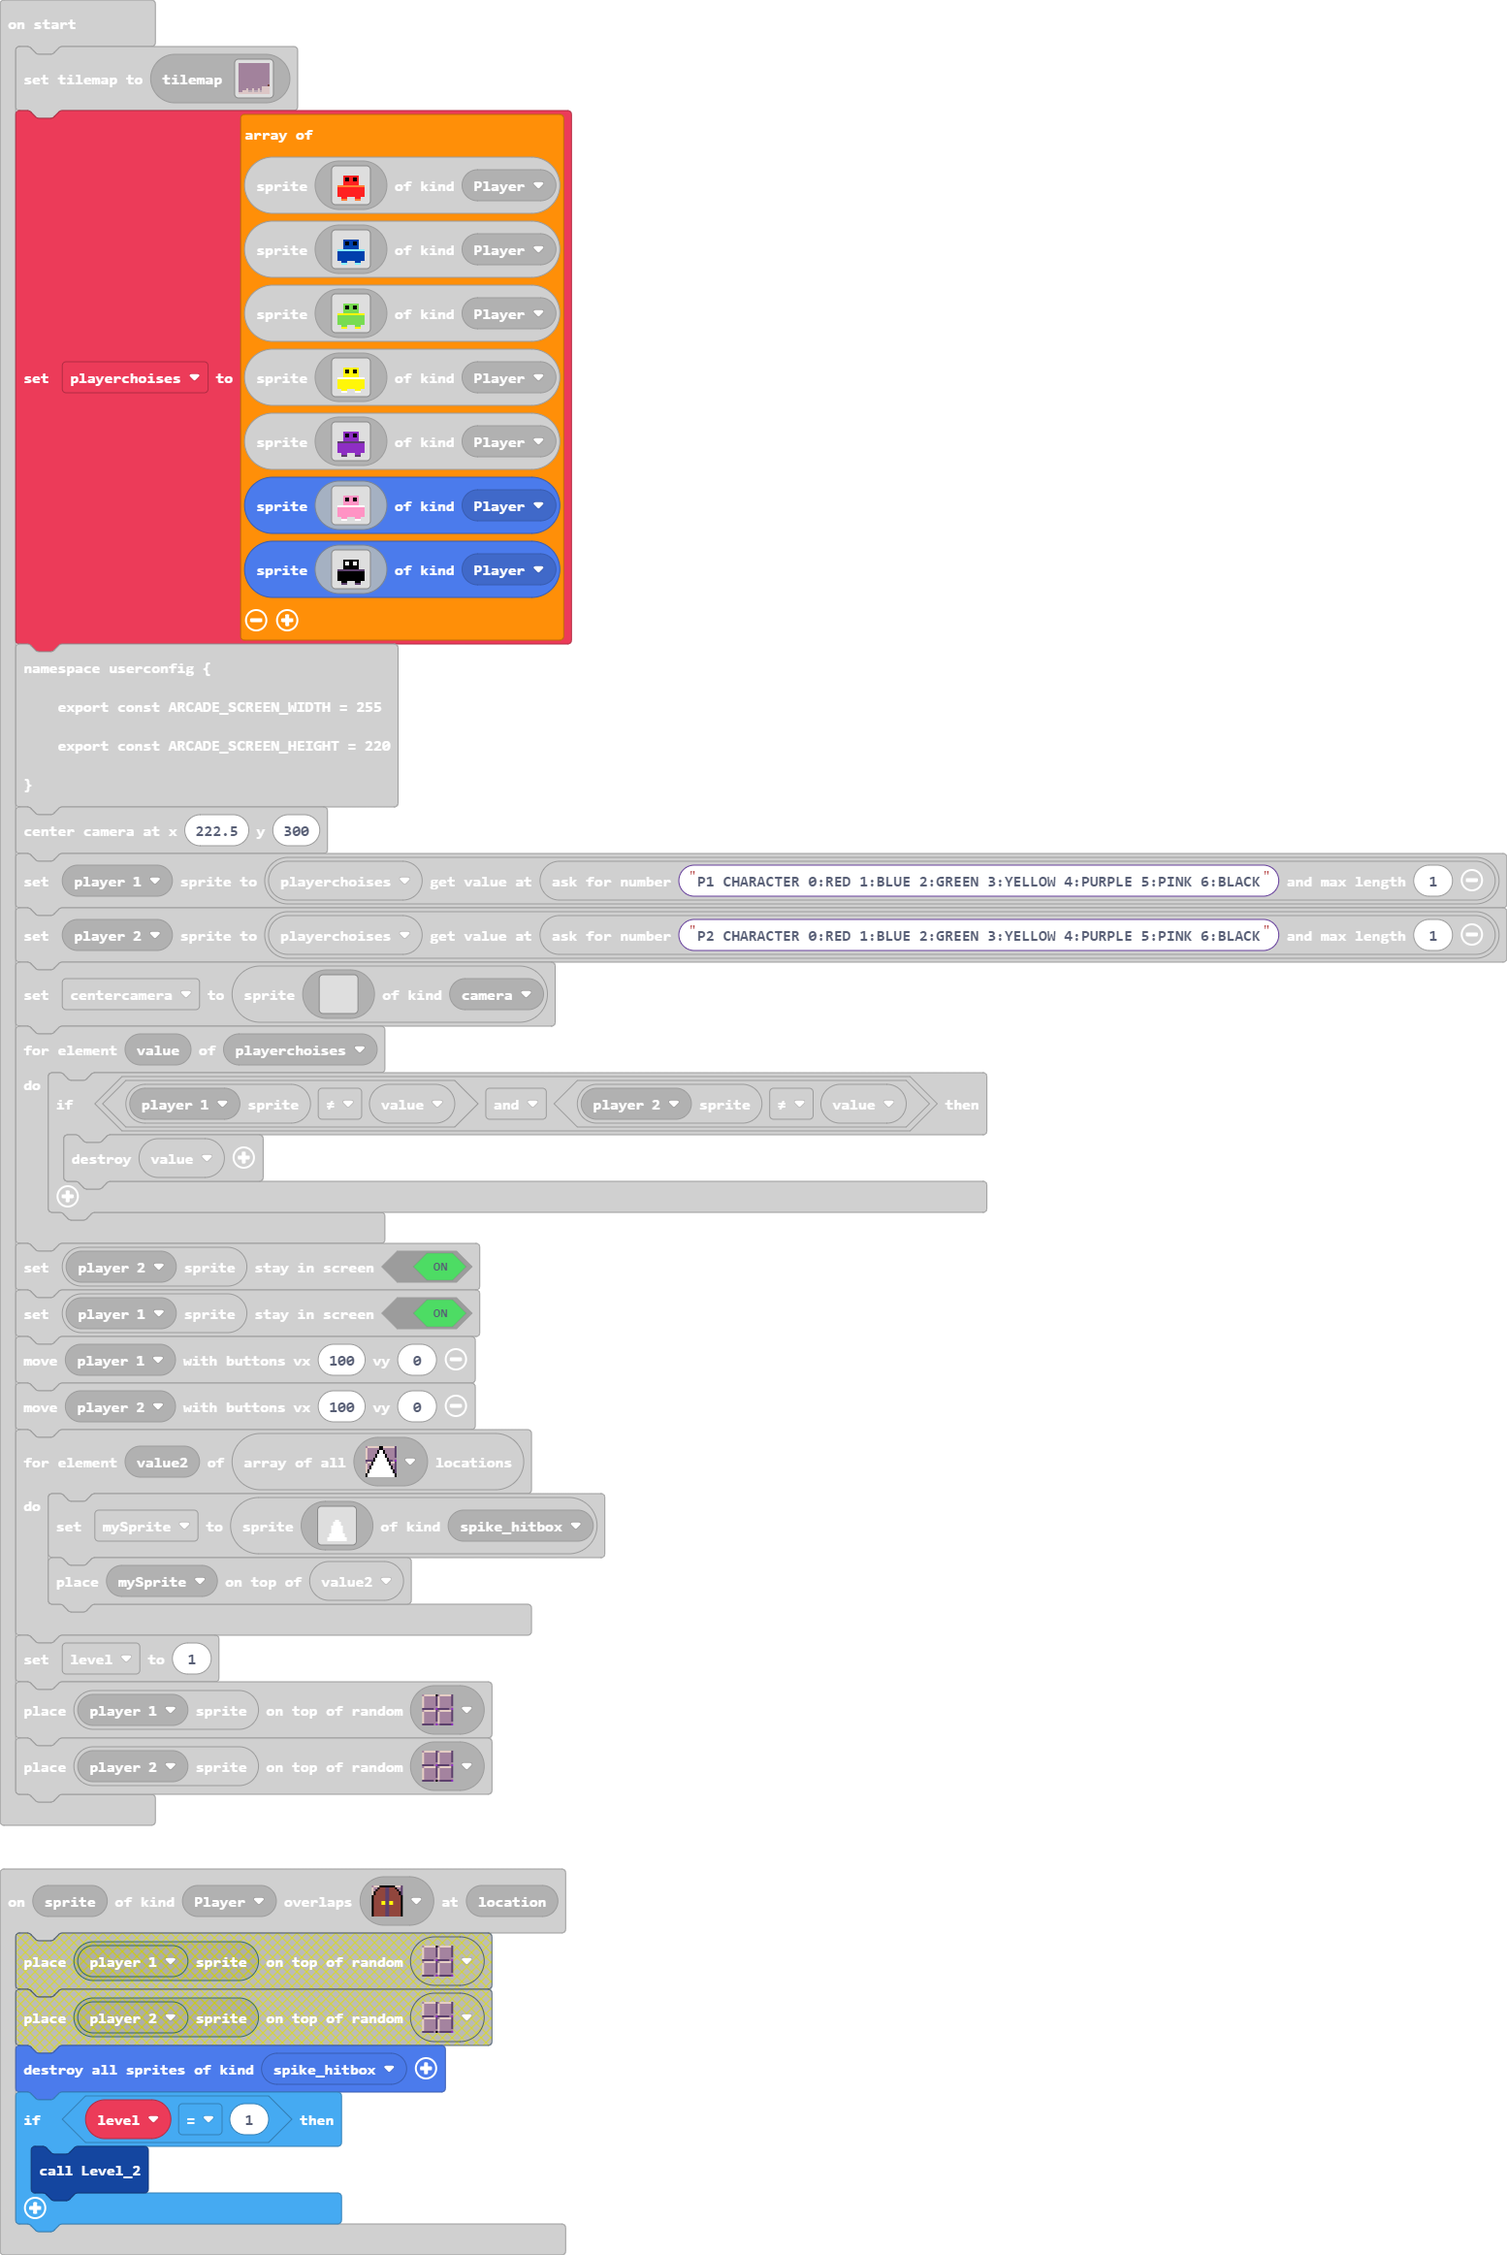
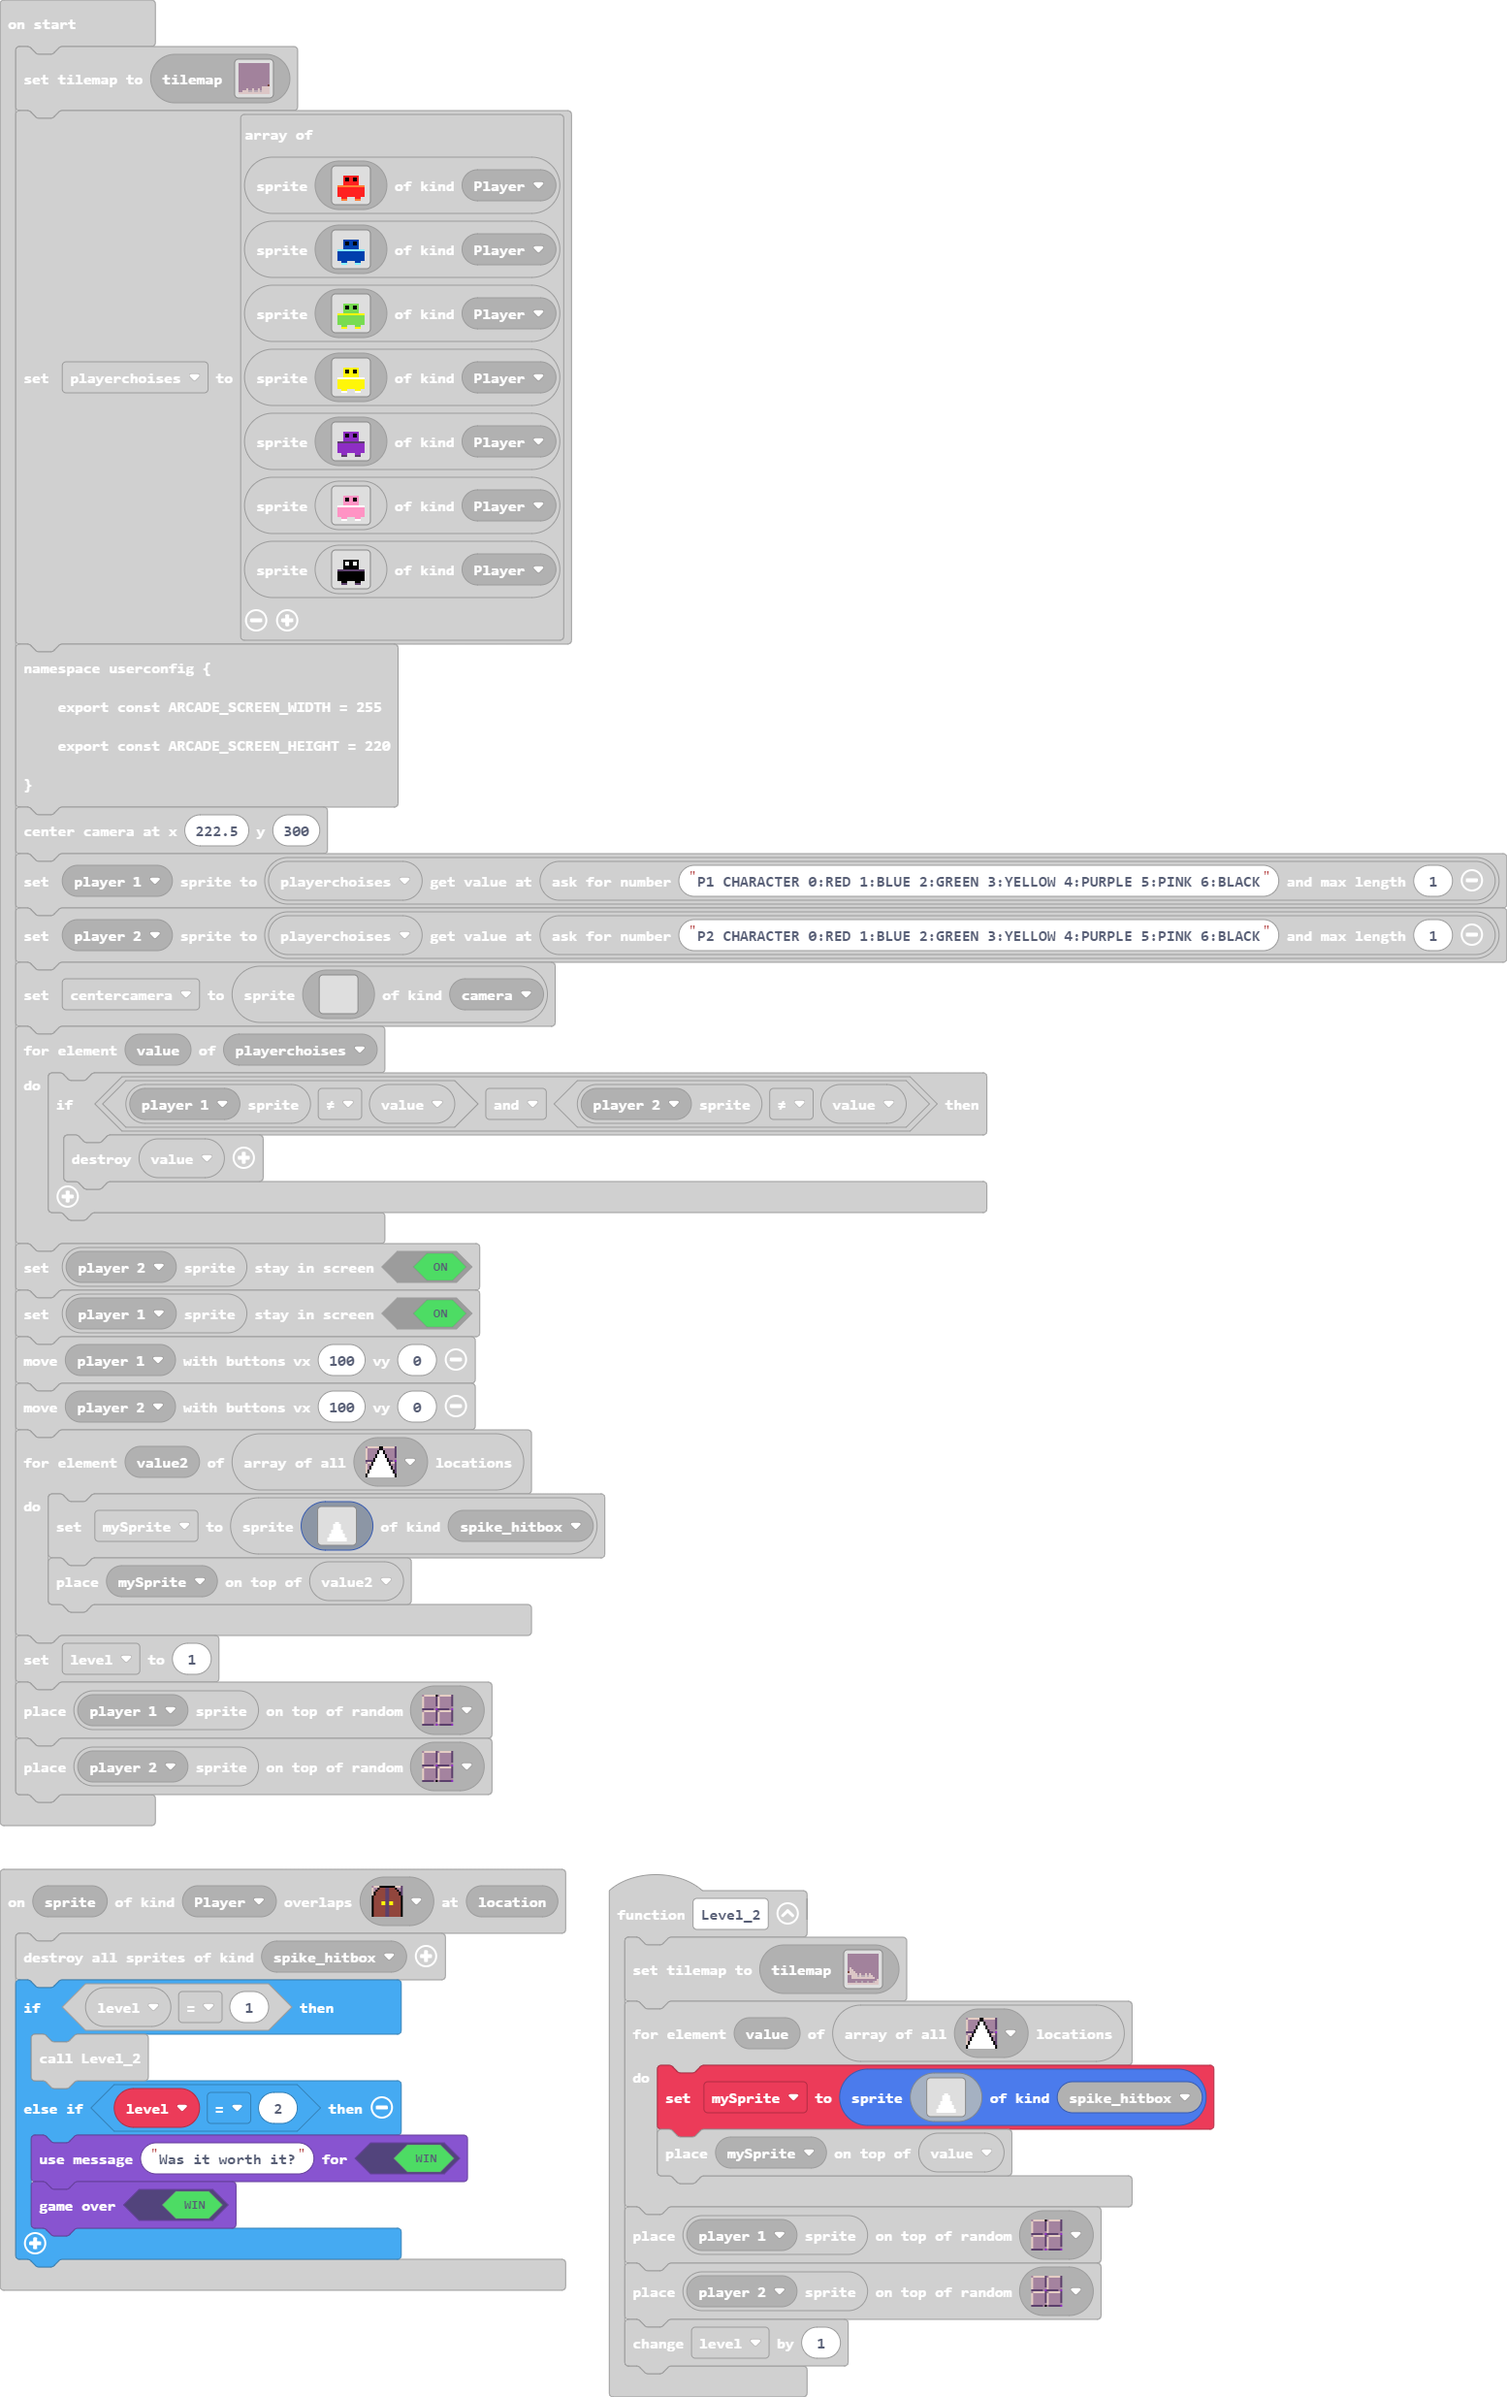
Update main.blocks, main.ts, tilemap.g.jres, tilemap.g.ts

diff --git a/tilemap.g.ts b/tilemap.g.ts
@@ -167,25 +167,6 @@ namespace myTiles {
 . . . . . . . . . . . . . . . . 
 . . . . . . . . . . . . . . . . 
 `, [myTiles.transparency16], TileScale.Sixteen);
-            case "level1":
-            case "level1":return tiles.createTilemap(hex`1000100001010101010101010101010101010101010101010101010101010101010101010101010101010101010101010101010101010101010101010101010101010101010101010101010101010101010101010101010101010101010101010101010101010101010101010101010101010101010201010101010101010101010101010102020101010101010101010101010106020202010101010101010101010101020202020201020101020102010101010101020202050205050205020201010101010202020202020202020202020101010101010101010101010101010101020403010105010105010105010501020202020202020202020202020202020202`, img`
-. . . . . . . . . . . . . . . . 
-. . . . . . . . . . . . . . . . 
-. . . . . . . . . . . . . . . . 
-. . . . . . . . . . . . . . . . 
-. . . . . . . . . . . . . . . . 
-. . . . . . . . . . . . . . . . 
-. . . . . . . . . . . . . . . . 
-. 2 . . . . . . . . . . . . . . 
-. 2 2 . . . . . . . . . . . . . 
-. 2 2 2 . . . . . . . . . . . . 
-2 2 2 2 2 . 2 . . 2 . 2 . . . . 
-. . 2 2 2 . 2 . . 2 . 2 2 . . . 
-. . 2 2 2 2 2 2 2 2 2 2 2 2 . . 
-. . . . . . . . . . . . . . . 2 
-. . . . . . . . . . . . . . 2 2 
-2 2 2 2 2 2 2 2 2 2 2 2 2 2 2 2 
-`, [myTiles.transparency16,sprites.dungeon.floorDark0,sprites.dungeon.floorLight0,myTiles.tile4,myTiles.tile5,myTiles.tile1,myTiles.tile2], TileScale.Sixteen);
             case "level10":
             case "level10":return tiles.createTilemap(hex`1000100000000000000000000000000000000000000000000000000000000000000000000000000000000000000000000000000000000000000000000000000000000000000000000000000000000000000000000000000000000000000000000000000000000000000000000000000000000000000000000000000000000000000000000000000000000000000000000000000000000000000000000000000000000000000000000000000000000000000000000000000000000000000000000000000000000000000000000000000000000000000000000000000000000000000000000000000000000000000000000000000000000000000000000000000000000000`, img`
 . . . . . . . . . . . . . . . . 
@@ -205,6 +186,25 @@ namespace myTiles {
 . . . . . . . . . . . . . . . . 
 . . . . . . . . . . . . . . . . 
 `, [myTiles.transparency16], TileScale.Sixteen);
+            case "level1":
+            case "level1":return tiles.createTilemap(hex`1000100001010101010101010101010101010101010101010101010101010101010101010101010101010101010101010101010101010101010101010101010101010101010101010101010101010101010101010101010101010101010101010101010101010101010101010101010101010101010201010101010101010101010101010102020101010101010101010101010106020202010101010101010101010101020202020201020101020102010101010101020202050205050205020201010101010202020202020202020202020101010101010101010101010101010101020403010105010105010105010105020202020202020202020202020202020202`, img`
+. . . . . . . . . . . . . . . . 
+. . . . . . . . . . . . . . . . 
+. . . . . . . . . . . . . . . . 
+. . . . . . . . . . . . . . . . 
+. . . . . . . . . . . . . . . . 
+. . . . . . . . . . . . . . . . 
+. . . . . . . . . . . . . . . . 
+. 2 . . . . . . . . . . . . . . 
+. 2 2 . . . . . . . . . . . . . 
+. 2 2 2 . . . . . . . . . . . . 
+2 2 2 2 2 . 2 . . 2 . 2 . . . . 
+. . 2 2 2 . 2 . . 2 . 2 2 . . . 
+. . 2 2 2 2 2 2 2 2 2 2 2 2 . . 
+. . . . . . . . . . . . . . . 2 
+. . . . . . . . . . . . . . 2 2 
+2 2 2 2 2 2 2 2 2 2 2 2 2 2 2 2 
+`, [myTiles.transparency16,sprites.dungeon.floorDark0,sprites.dungeon.floorLight0,myTiles.tile4,myTiles.tile5,myTiles.tile1,myTiles.tile2], TileScale.Sixteen);
         }
         return null;
     })

diff --git a/main.ts b/main.ts
@@ -7,6 +7,9 @@ scene.onOverlapTile(SpriteKind.Player, assets.tile`myTile0`, function (sprite, l
     sprites.destroyAllSpritesOfKind(SpriteKind.spike_hitbox)
     if (level == 1) {
         Level_2()
+    } else if (level == 2) {
+        game.setGameOverMessage(true, "Was it worth it?")
+        game.gameOver(true)
     }
 })
 sprites.onOverlap(SpriteKind.Player, SpriteKind.spike_hitbox, function (sprite, otherSprite) {
@@ -75,11 +78,11 @@ function Level_2 () {
             . . . . . . . . . . . . . . . . 
             . . . . . . . . . . . . . . . . 
             . . . . . . . . . . . . . . . . 
+            . . . . . . . . . . . . . . . . 
             . . . . . . . 1 1 . . . . . . . 
             . . . . . . 1 1 1 1 . . . . . . 
             . . . . . . 1 1 1 1 . . . . . . 
-            . . . . . 1 1 1 1 1 1 . . . . . 
-            . . . . . 1 1 1 1 1 1 . . . . . 
+            . . . . . . 1 1 1 1 . . . . . . 
             . . . . . 1 1 1 1 1 1 . . . . . 
             . . . . . 1 1 1 1 1 1 . . . . . 
             . . . . 1 1 1 1 1 1 1 1 . . . . 
@@ -266,11 +269,11 @@ for (let value2 of tiles.getTilesByType(assets.tile`myTile`)) {
         . . . . . . . . . . . . . . . . 
         . . . . . . . . . . . . . . . . 
         . . . . . . . . . . . . . . . . 
+        . . . . . . . . . . . . . . . . 
         . . . . . . . 1 1 . . . . . . . 
         . . . . . . 1 1 1 1 . . . . . . 
         . . . . . . 1 1 1 1 . . . . . . 
-        . . . . . 1 1 1 1 1 1 . . . . . 
-        . . . . . 1 1 1 1 1 1 . . . . . 
+        . . . . . . 1 1 1 1 . . . . . . 
         . . . . . 1 1 1 1 1 1 . . . . . 
         . . . . . 1 1 1 1 1 1 . . . . . 
         . . . . 1 1 1 1 1 1 1 1 . . . . 
